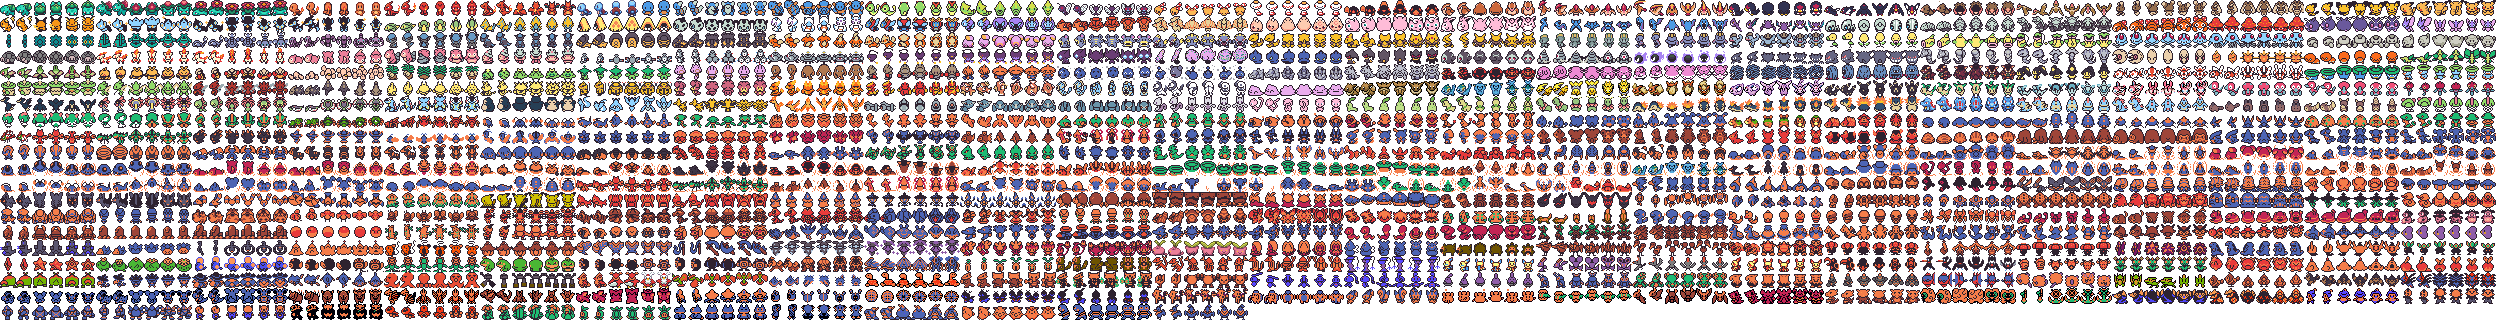
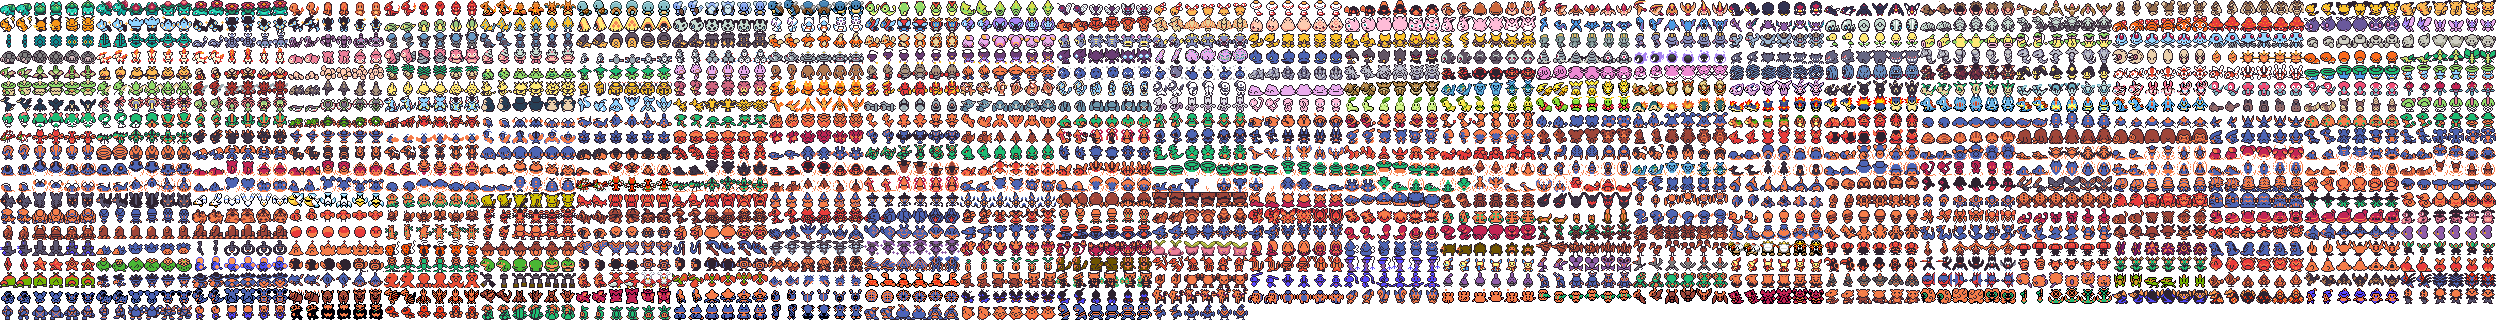
OW and Battle colouring

diff --git a/README.md b/README.md
@@ -64,3 +64,6 @@ It is a great sprite and really fits in well with the game.
 
 Contributor - Danieru
 Thanks for the new holes and OW sprites recolour it's a great job and really improves the world
+
+Contributor - Fantactic
+Fixed the white indoor roof bug thanks again as well as colouring OW spritess
